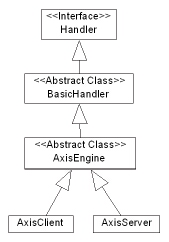
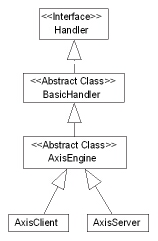
Tidy up architecture guide and improve UML notation in certain diagrams.
git-svn-id: https://svn.apache.org/repos/asf/webservices/axis1/trunk/java@254462 13f79535-47bb-0310-9956-ffa450edef68

diff --git a/docs/architecture-guide.html b/docs/architecture-guide.html
@@ -58,7 +58,7 @@ In this section we'll give you an overview of how the core of Axis works.
 Handlers and the Message Path in Axis</h3>
 Put simply, Axis is all about processing Messages. When the central Axis
 processing logic runs, a series of <b>Handlers</b> are each invoked in
-order. The particular oder is determined by two factors - deployment configuration
+order. The particular order is determined by two factors - deployment configuration
 and whether the engine is a client or a server. The object which is passed
 to each Handler invocation is a <b>MessageContext</b>. A MessageContext
 is a structure which contains several important parts: 1) a "request" message,
@@ -75,14 +75,16 @@ As a <b>client</b>, application code (usually aided by the client programming
 model of Axis) will generate a MessageContext and invoke the Axis processing
 framework.</li>
 </ol>
+<p>
 In either case, the Axis framework's job is simply to pass the resulting
-MessageContext through a configurable set of Handlers, each of which has
+MessageContext through the configured set of Handlers, each of which has
 an opportunity to do whatever it is designed to do with the MessageContext.
 <h3>
 Message Path on the Server</h3>
 The server side message path is shown in the following diagram. The small
 cylinders represent Handlers and the larger, enclosing cylinders represent
-Chains.
+<b>Chains</b> (ordered collections of Handlers which will be described
+shortly).
 <br><img SRC="ServerMessagePath.jpg" VSPACE=30 height=282 width=602>
 <br>A message arrives (in some protocol-specific manner) at a Transport
 Listener. In this case, let's assume the Listener is a HTTP servlet. It's
@@ -102,8 +104,7 @@ request Chain exists, it will be invoked, passing the MessageContext into
 the invoke() method. This will result in calling all the Handlers specified
 in the request Chain configuration.
 <p>After the transport request Handler, the engine locates a global request
-Chain, if configured (in the &lt;requestFlow> element of the WSDD &lt;globalConfiguration>,
-as explained in the WSDD deployment section later in this document), and
+Chain, if configured, and
 then invokes any Handlers specified therein.
 <p>At some point during the processing up until now, some Handler has hopefully
 set the <b>serviceHandler</b> field of the MessageContext (this is usually
@@ -116,7 +117,7 @@ which may contain <b>request</b> and <b>response</b> Chains (similar to
 what we saw at the transport and global levels), and must contain a <b>provider</b>,
 which is simply a Handler responsible for implementing the actual back
 end logic of the service.
-<p>In typical RPC examples, the provider is the org.apache.axis.providers.java.RPCProvider
+<p>For RPC-style requests, the provider is the org.apache.axis.providers.java.RPCProvider
 class. This is just another Handler that, when invoked, attempts to call
 a backend Java object whose class is determined by the "className" parameter
 specified at deployment time. It uses the SOAP RPC convention for determining
@@ -130,7 +131,7 @@ except the order of scoping is reversed, as shown below.
 <br>The <b>service</b> Handler, if any, is called first - on the client
 side, there is no "provider" since the service is being provided by a remote
 node, but there is still the possibility of request and response Chains.
-The service request and response Chains serve to do any service-specific
+The service request and response Chains perform any service-specific
 processing of the request message on its way out of the system, and also
 of the response message on its way back to the caller.
 <p>After the service request Chain, the global request Chain, if any, is
@@ -153,6 +154,13 @@ independent, although not necessary mutually exclusive, alternatives. For
 example, the HTTP and SMTP transports are independent of each other but
 may be used together.
 <p><img SRC="subsystems.jpg">
+<p>
+In fact, the Axis source code is not as cleanly separated into subsystems
+as the above diagram might imply. Some subsystems are spread over
+several packages and some packages overlap more than one subsystem.
+Proposals to improve the code structure and make it
+conform more accurately to the notional Axis subsystems will be considered
+after v1.0 of Axis is complete.
 <h2>
 <a NAME="Message Flow"></a>Message Flow Subsystem</h2>
 
@@ -175,8 +183,8 @@ in the message path even when there isn't a response message, e.g. to stop
 timers, clean up resources, etc.
 <p>A Chain is a composite Handler, i.e. it aggregates a collection of Handlers
 as well as implementing the Handler interface as shown in the following
-diagram:
-<br><img SRC="chainclasses.jpg" height=297 width=267>
+UML diagram:
+<br><img SRC="chainclasses.jpg">
 <p>A Chain also has similarities to the Chain of Responsibility design pattern
 in which a request flows along a sequence of Handlers until it is processed.
 Although an Axis Chain may process a request in stages over a succession of
@@ -186,7 +194,7 @@ flexibility and the ease with which new function can be added.
 the appropriate Chains. A message context is used to pass the message and
 associated environment through the sequence of Handlers. The model is that
 Axis Chains are constructed offline by having Handlers added to them one
-at a time. Then they are made online and message contexts start to flow
+at a time. Then they are turned online and message contexts start to flow
 through the Chains. Multiple message contexts may flow through a single
 Chain concurrently. Handlers are never added to a Chain once it goes online.
 If a Handler needs to be added or removed, the Chain must be 'cloned',
@@ -200,7 +208,7 @@ simplification.
 and Chains can be defined to have 'per-access', 'per-request', or 'singleton'
 scope although the registry currently only distinguishes between these
 by constructing non-singleton scope objects when requested and constructing
-'singleton scope objects once and holding on to them for use on subsequent
+singleton scope objects once and holding on to them for use on subsequent
 creation requests.
 <h4>
 Targeted Chains</h4>
@@ -209,7 +217,7 @@ all of: a request Handler, a pivot Handler, and a response Handler. The
 following class diagram shows how Targeted Chains relate to Chains. Note
 that a Targeted Chain is an aggregation of Handlers by virtue of extending
 the Chain interface which is an aggregation of Handlers.
-<p><img SRC="targetedchainclasses.jpg" height=288 width=253>
+<p><img SRC="targetedchainclasses.jpg">
 <p>A service is a special kind of Targeted Chain in which the pivot Handler
 is known as a "provider".
 <h4>
@@ -227,25 +235,20 @@ The current structure of a MessageContext is shown below. Each message
 context may be associated with a request Message and/or a response Message.
 Each Message has a SOAPPart and an Attachments object, both of which implement
 the Part interface.
-<br><img SRC="messagecontext.jpg" height=140 width=597>
+<br><img SRC="messagecontext.jpg">
 <br>The typing of Message Contexts needs to be carefully considered in
 relation to the Axis architecture. Since a Message Context appears on the
 Handler interface, it should not be tied to or biassed in favour of&nbsp;
 SOAP. The current implementation is marginally biassed towards SOAP in
 that the setServiceHandler method narrows the specified Handler to a SOAPService.
-But if we were to factor out a more abstract Message Context interface,
-we would then be then faced with a problem. Some Handlers, most likely
-in the global layer, would need to accept a Message Context with a particular
-concete type (e.g. for a HTTP transport) and produce a Message Context
-of a different concrete type (e.g. for a SOAP service) and so Handler.invoke
-would need a more complex signature.
+
 <h3>
 <a NAME="Engine"></a>Engine</h3>
 Axis has an abstract AxisEngine class with two concrete subclasses: AxisClient
 drives the client side handler chains and AxisServer drives the server
 side handler chains. The relationships between these classes is fairly
 simple:
-<br><img SRC="engineclasses.jpg" height=242 width=169>
+<br><img SRC="engineclasses.jpg">
 <h4>Engine Configuration</h3>
 The EngineConfiguration interface is the means of configuring the Handler
 factories and global options of an engine instance. An instance of a
